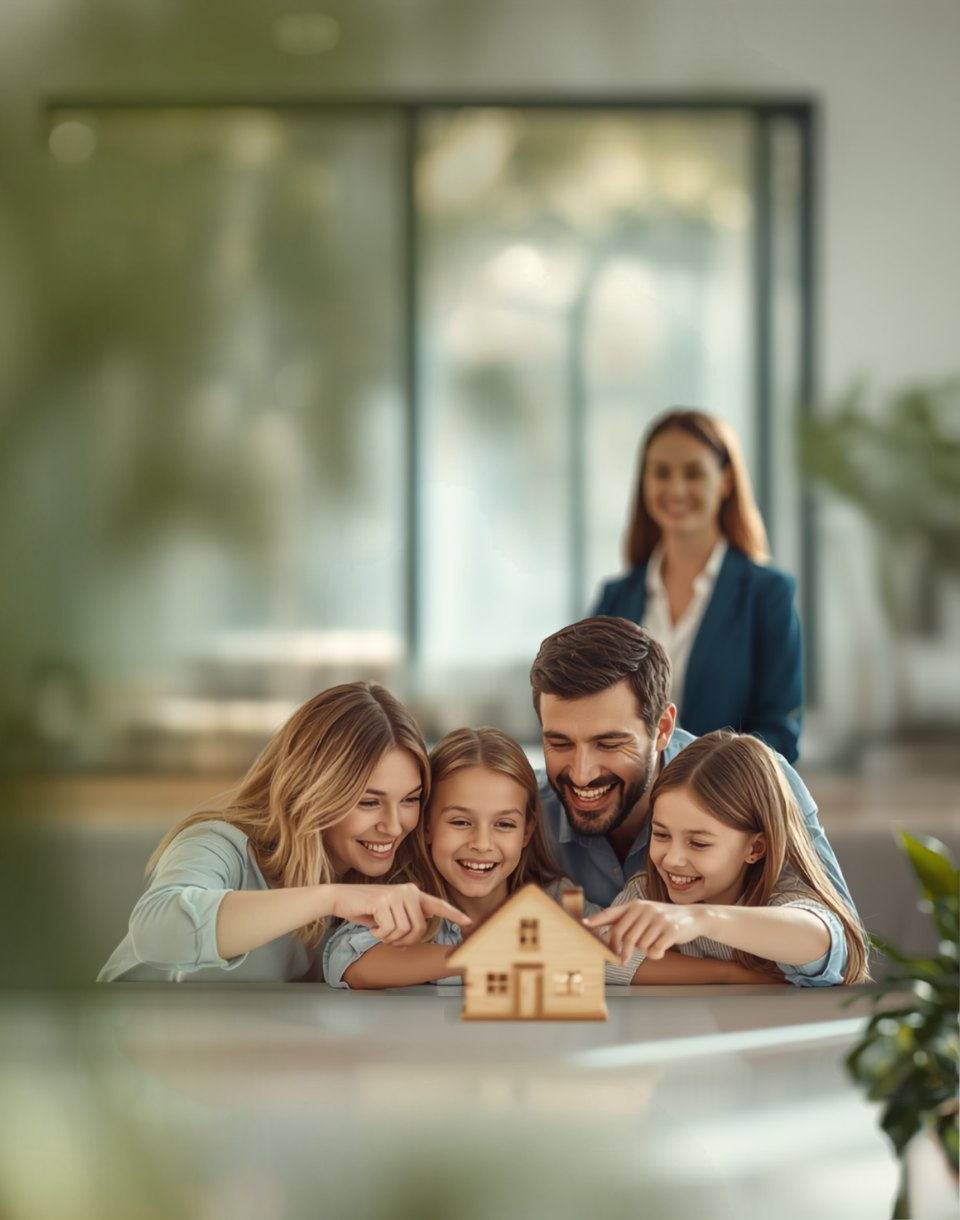
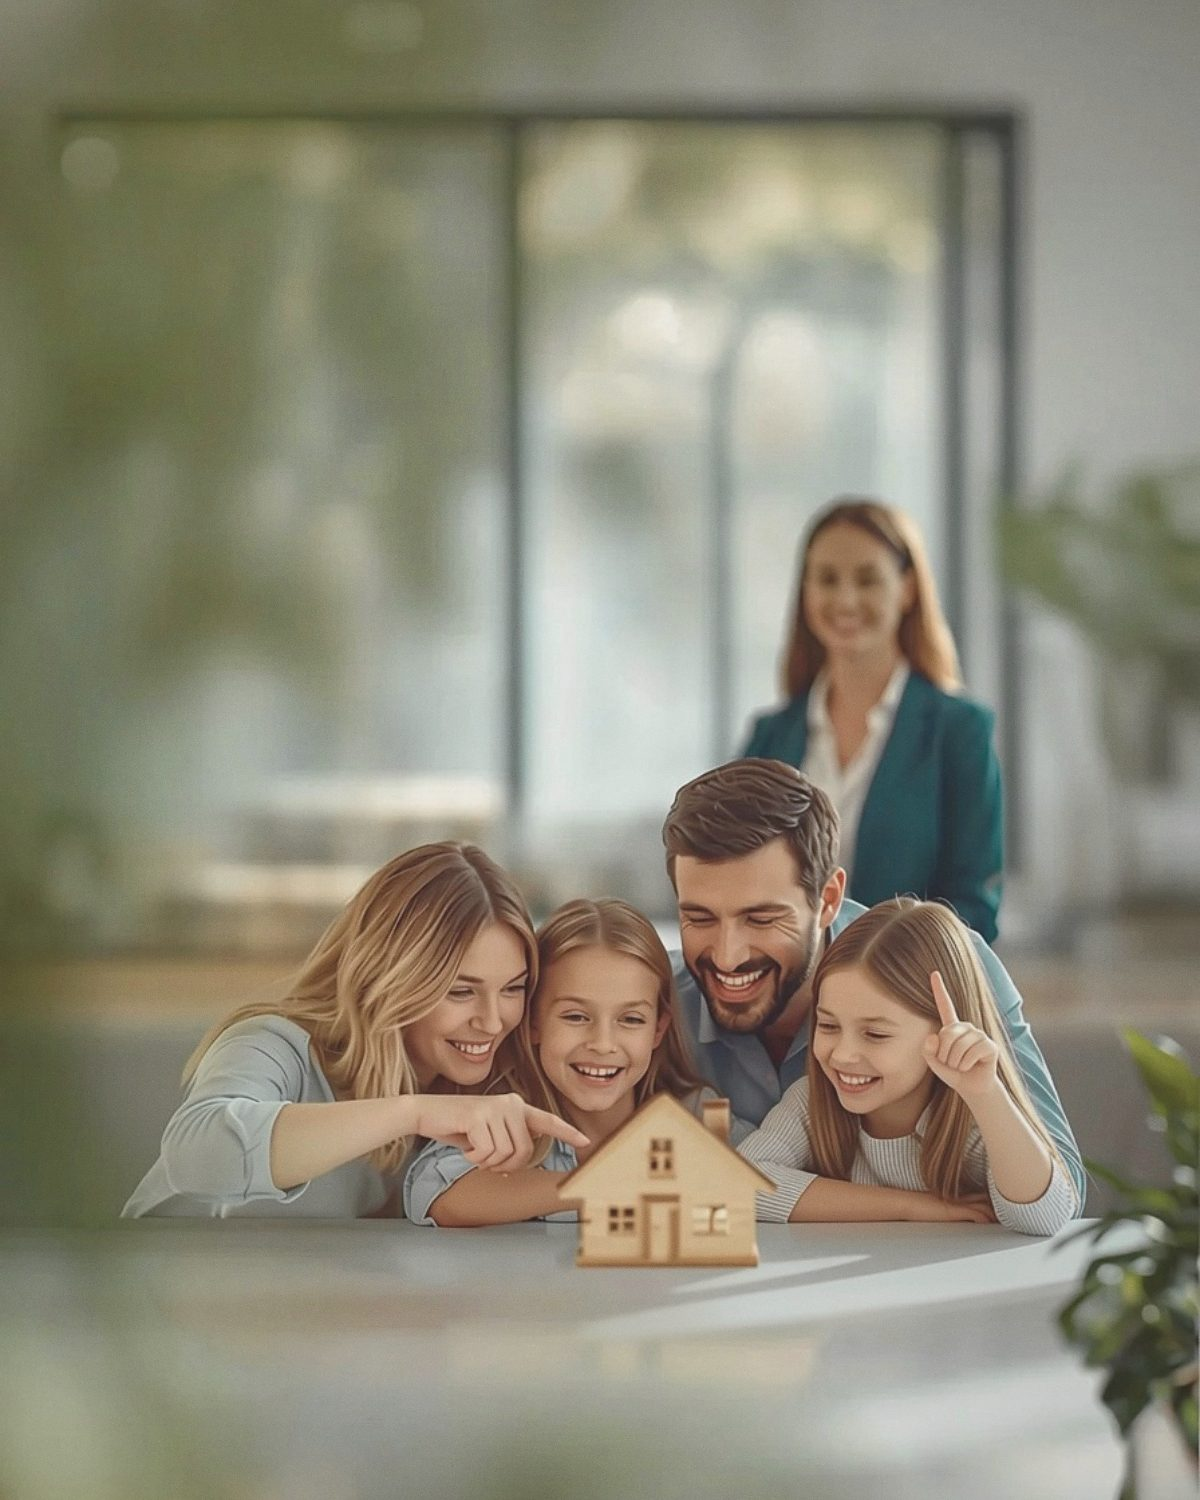
Add files via upload

diff --git a/index.html b/index.html
@@ -896,7 +896,7 @@ html{scroll-behavior:smooth}
         <source srcset="img/famille-projet.webp" type="image/webp">
         <img src="img/famille-projet.jpg"
              alt="Une famille examine une maquette de maison avec sa courtière hypothécaire dans un bureau au Québec"
-             width="960" height="1220" fetchpriority="high">
+             width="1200" height="1500" fetchpriority="high">
       </picture>
     </div>
   </section>
